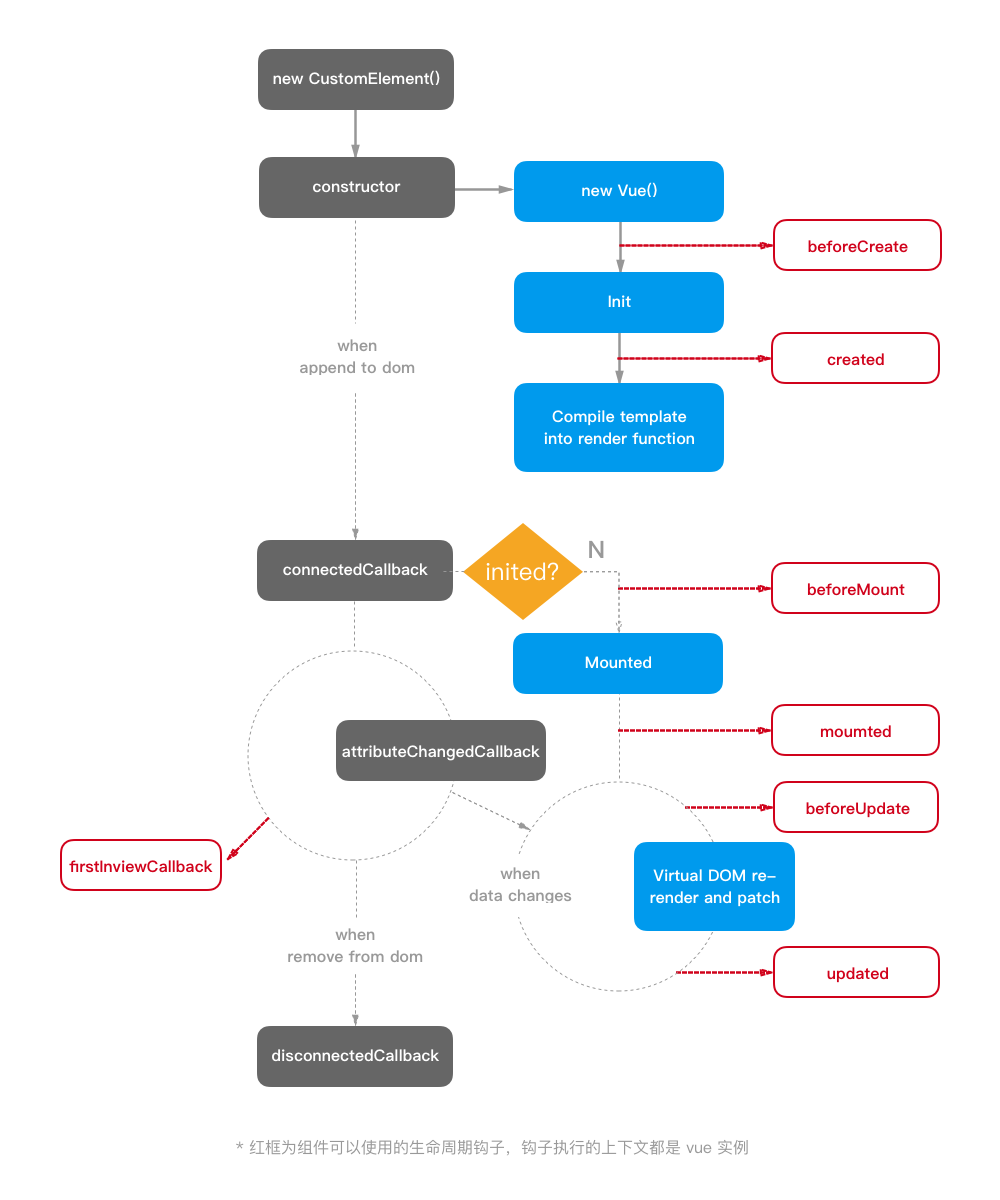
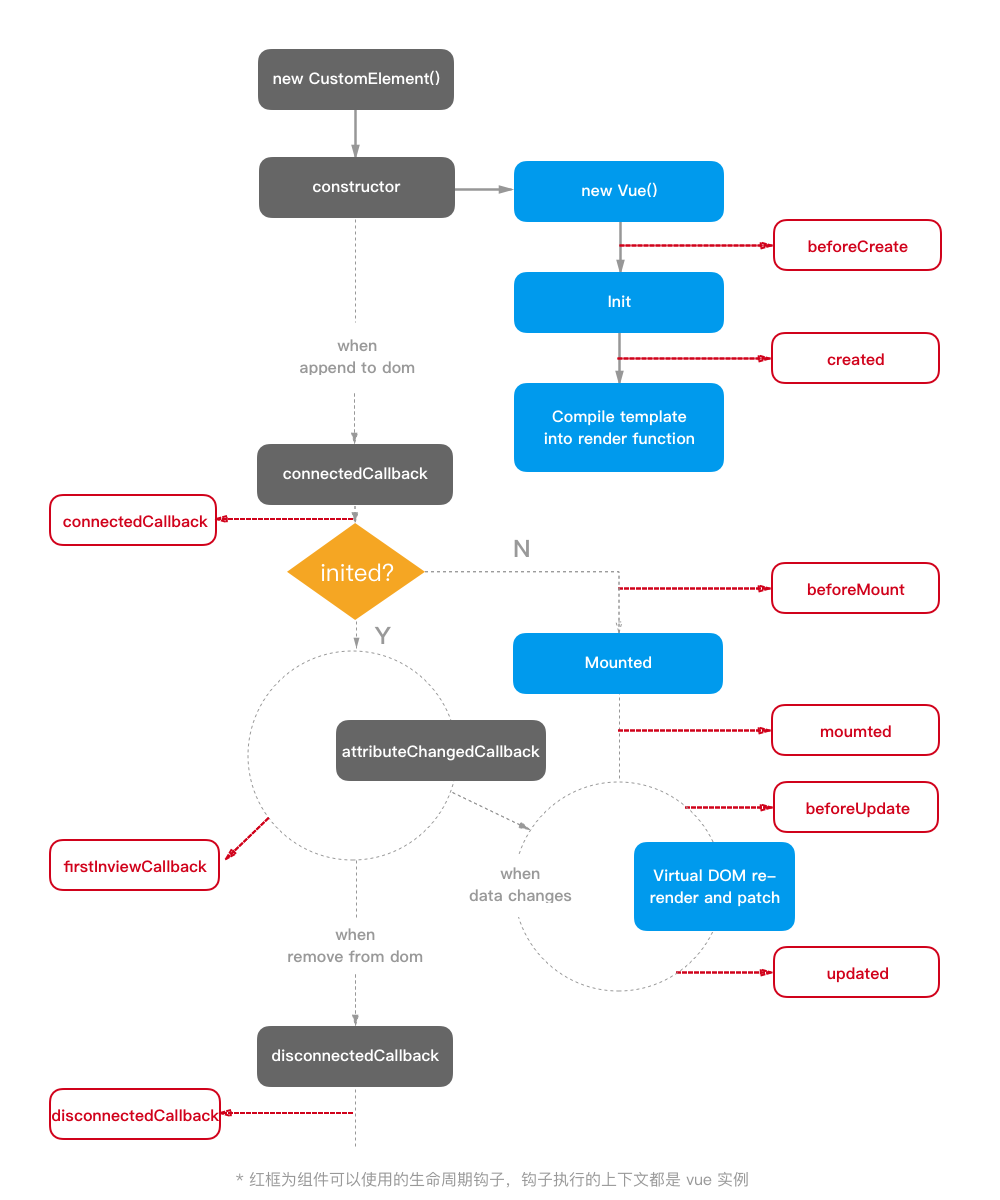
update lifecyc

diff --git a/src/custom-element/index.js b/src/custom-element/index.js
@@ -87,10 +87,12 @@ function install(Vue, router) {
                 }
 
                 componentDefinition[firstInviewCallbackLifeCircleName] && resources.add(this);
+                callLifeCycle(this.vm, 'connectedCallback', this);
             }
 
             disconnectedCallback() {
                 resources.remove(this);
+                callLifeCycle(this.vm, 'disconnectedCallback', this);
             }
 
             attributeChangedCallback(name, oldValue, value) {

diff --git a/docs/components/instance-life-cycle.md b/docs/components/instance-life-cycle.md
@@ -14,8 +14,8 @@ mip 自定义元素 (Custom Element) 本质上是基于 [Web Component](https://
 - **beforeUpdate**: vue 数据状态发生变化时调用，如果自定义元素上的属性在 vue 组件定义的 prop 列表里，则自定义元素属性变化会触发 vue 数据状态的变化
 - **updated**: vue 重新渲染完成后触发调用
 - **firstInviewCallback**: 自定义元素第一次出现在浏览器窗口时触发调用，参数为自定义元素实例
-- **connnectedCallback**: 自定义元素挂载到 dom 结构时候调用
-- **disconnectedCallback**: 自定义元素从 dom 结构移除后调用
+- **connnectedCallback**: 自定义元素挂载到 dom 结构时候调用,参数为自定义元素实例
+- **disconnectedCallback**: 自定义元素从 dom 结构移除后调用,参数为自定义元素实例
 
 ### 生命周期图示
 
